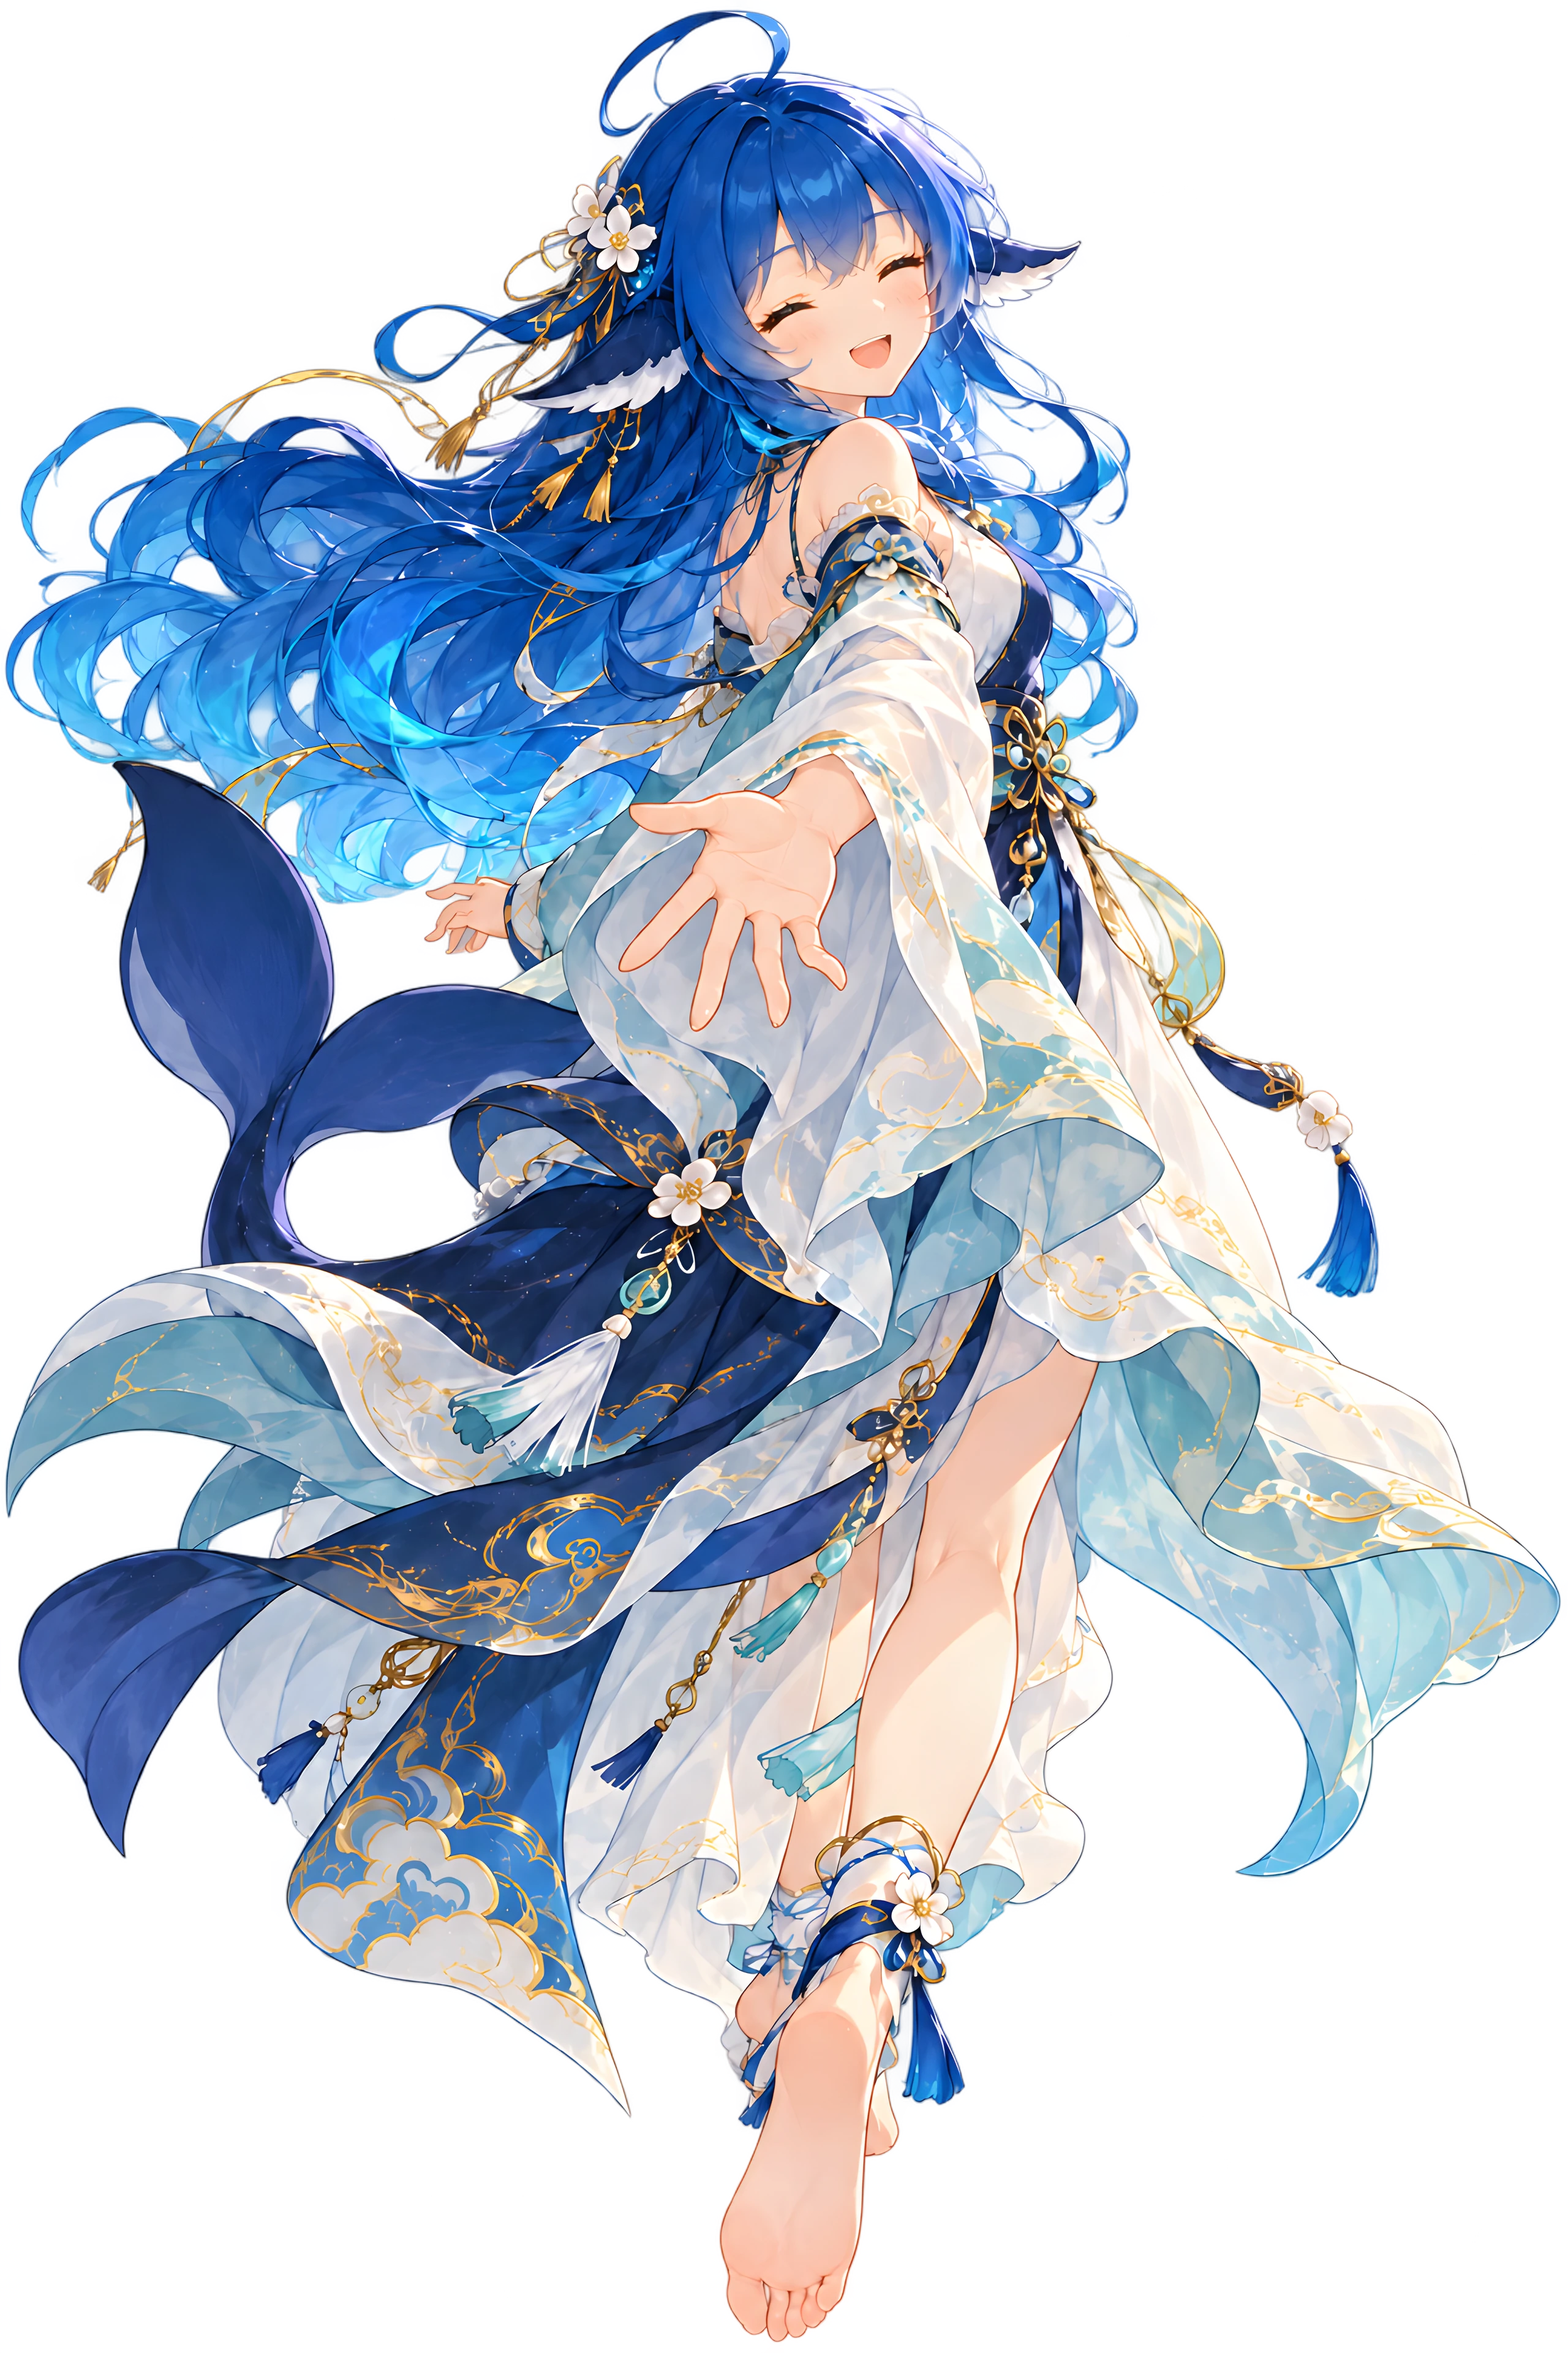
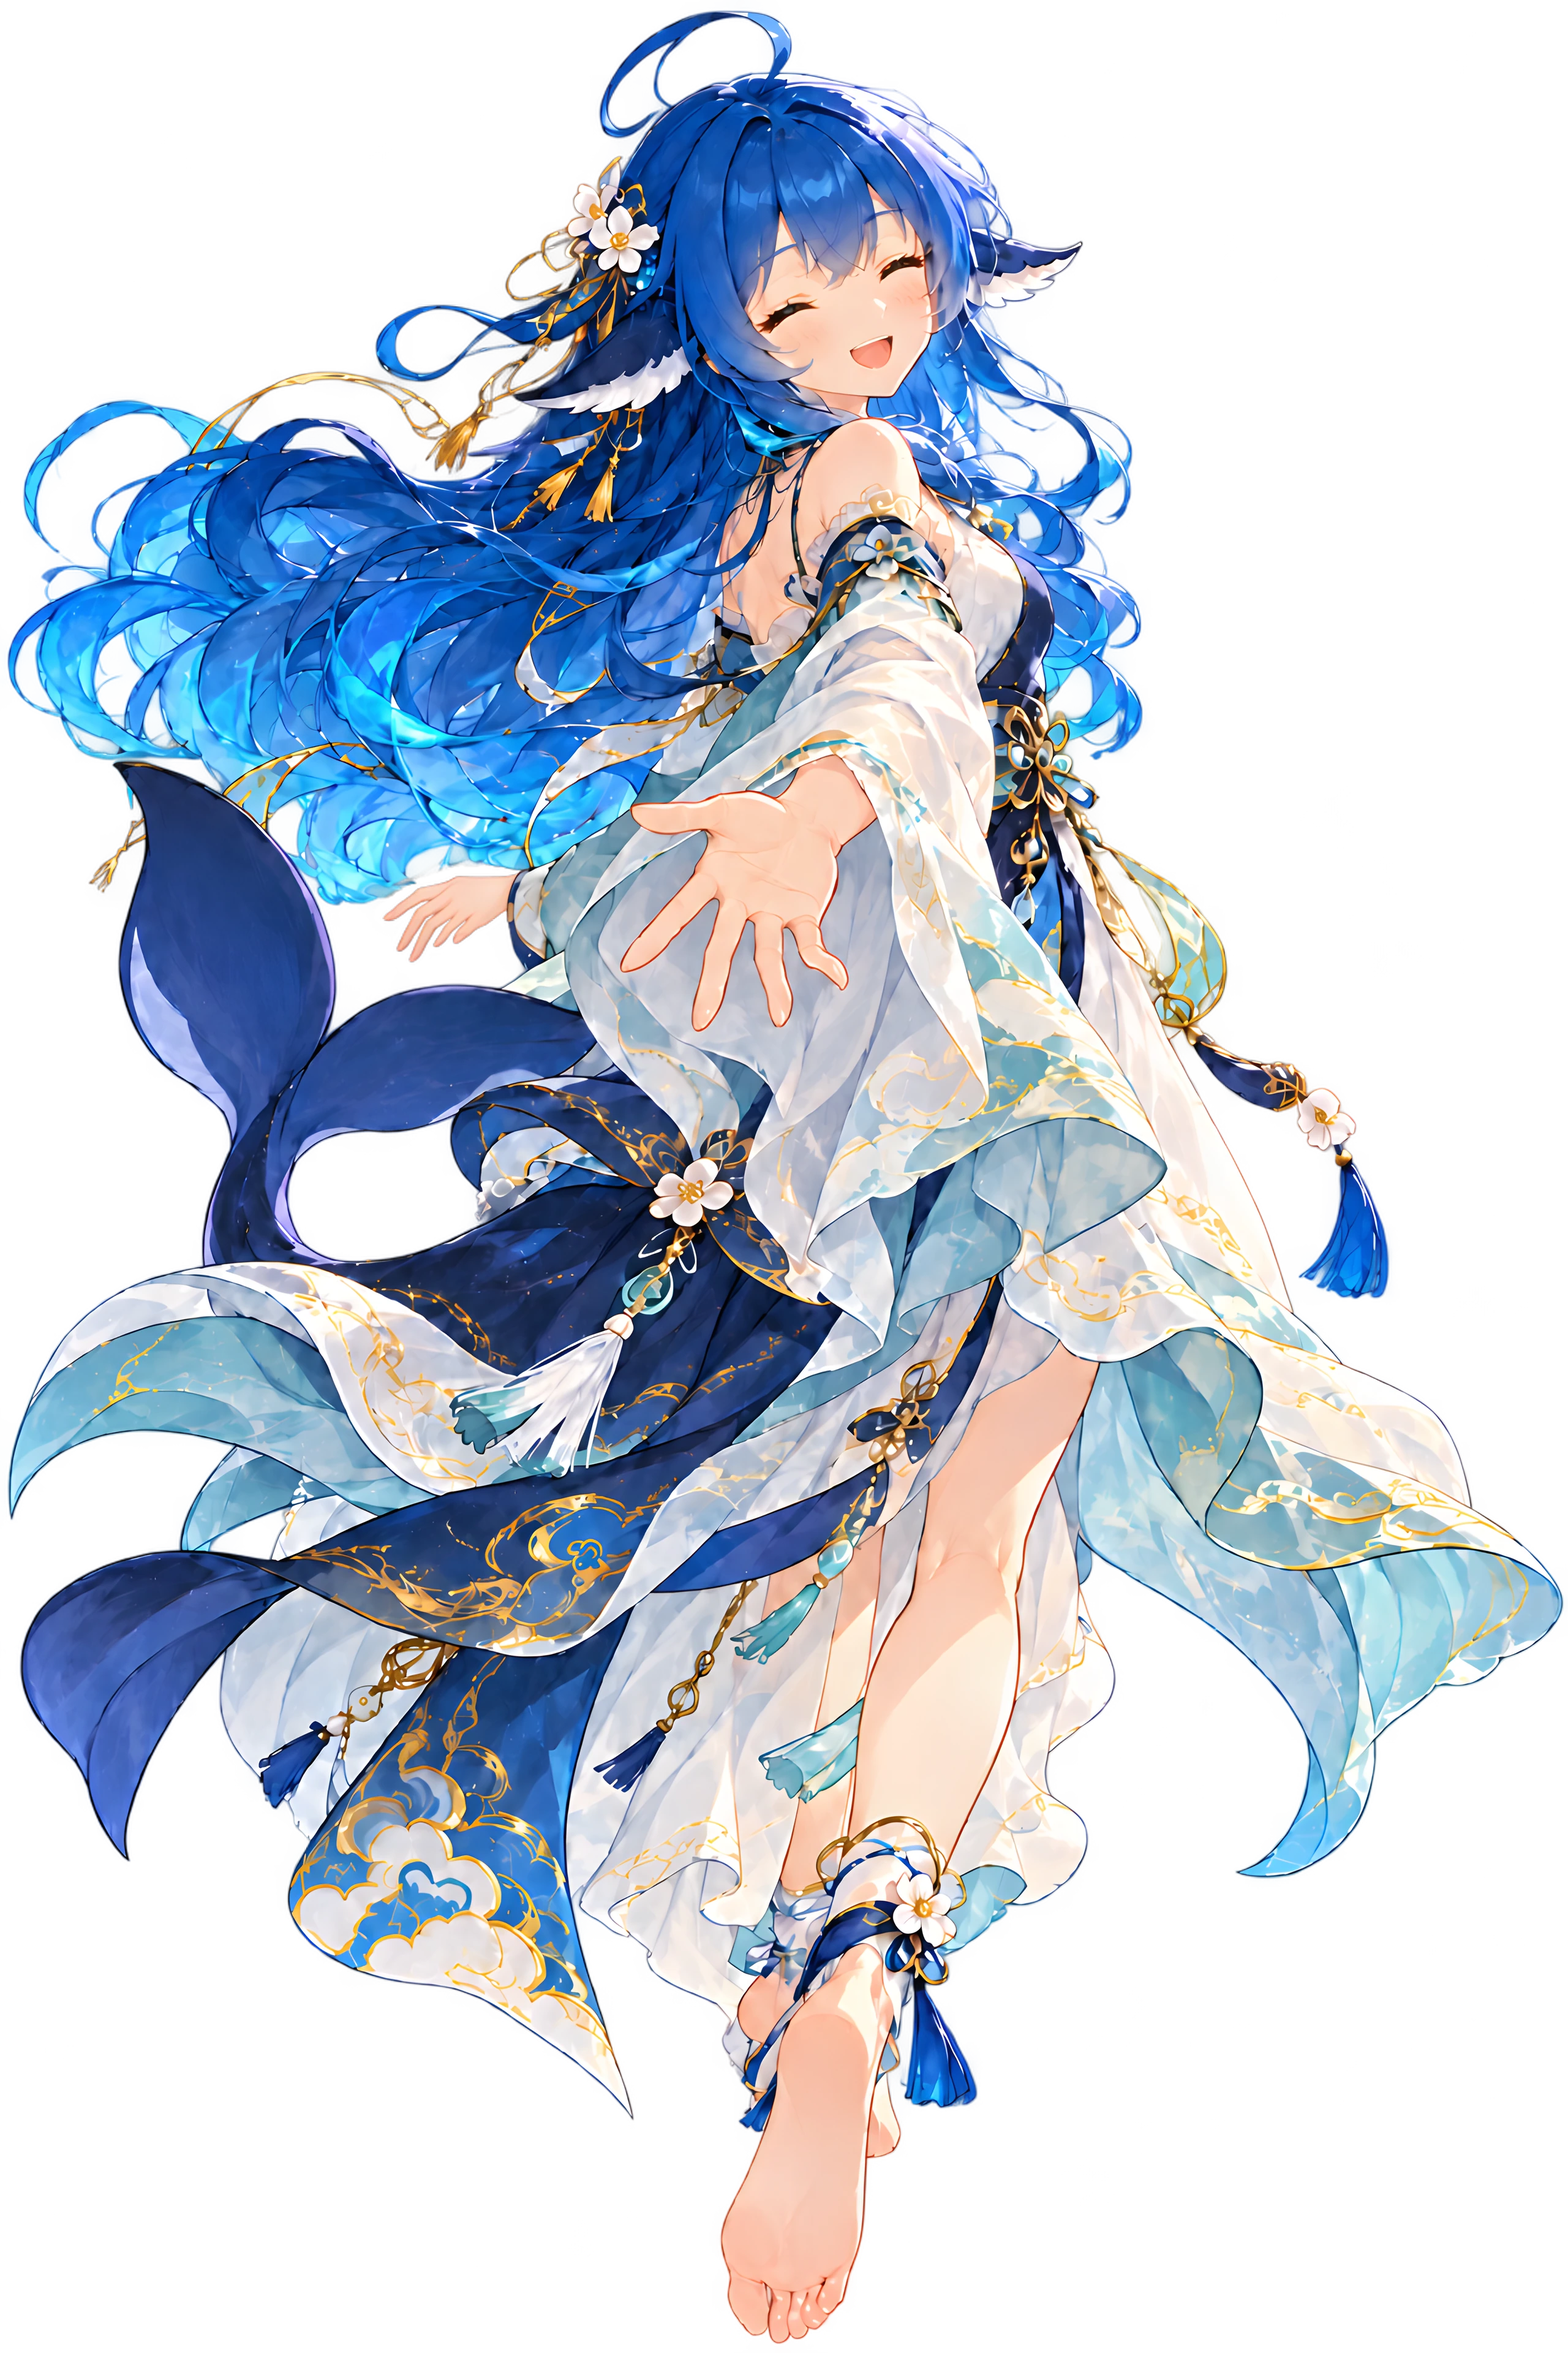
fix: correct gacha hand artwork and refine asset review

diff --git a/docs/gacha-art.md b/docs/gacha-art.md
@@ -10,11 +10,14 @@ This standard applies to every existing and future Gacha Simulator card. Rarity 
 - Use the full-size girl designs for ordinary themes. Explicitly designated chibi themes may use the corresponding chibi references.
 - All rarities require finished composition, expressive faces, sound anatomy, clean edges, coherent lighting and distinct outfits. Keep important features readable in thumbnails.
 - Trace every visible limb from shoulder through elbow and wrist before approving its hand. Check handedness from the character's anatomy and the visible palm/back orientation, then count one thumb and four fingers. Verify foreshortening, joint direction and occluded digits at full size. Match palm width, finger thickness and finger spread to the character's build, while retaining plausible perspective enlargement. Apply the same review to cards, companion illustrations, both wallpaper variants and every animation pose. A hand correction must preserve correct limbs and propagate to animation layers and static fallbacks.
+- Inspect enlarged crops of distant hands, fingertips and partially hidden limbs before reviewing the full composition. Trace each digit from its own root through its joints; five visible tips alone do not prove correct anatomy. After a correction, review the registered composite again before exporting derivatives.
 - Retain references, source images, layered animation inputs, authoring parameters, licensing and adoption status in the maintained asset library. Ship optimized derivatives with applicable notices.
 
 ## Layered production
 
 Create the character-free theme background first. Author transparent character foregrounds against that background, then compose the card, companion illustration and pool cover from the retained layers. Independent compositions may retain connected props in their foreground layer to preserve contact and occlusion. Keep registration, alpha, source references and composition parameters with the artwork; flattened output is a delivery derivative.
+
+Inspect transparent corrections on light and dark neutral backgrounds and on the actual scene. Check corners, finger gaps, fine hair and translucent fabric for unwanted opacity, dark haze, patch seams and duplicated outlines. A transparent preview alone does not establish clean alpha. Keep accepted and rejected revisions distinct so a later export cannot restore an earlier defect.
 
 Existing N/R/SR cards use separate theme backgrounds and character layers. Existing group illustrations and covers retain their original cast compositions as registered foreground layers. Existing SSR/SP character, eyelid and scene layers remain reusable. The asset composition manifest records the inputs and placement. Keep the former flattened masters in the local archive.
 
